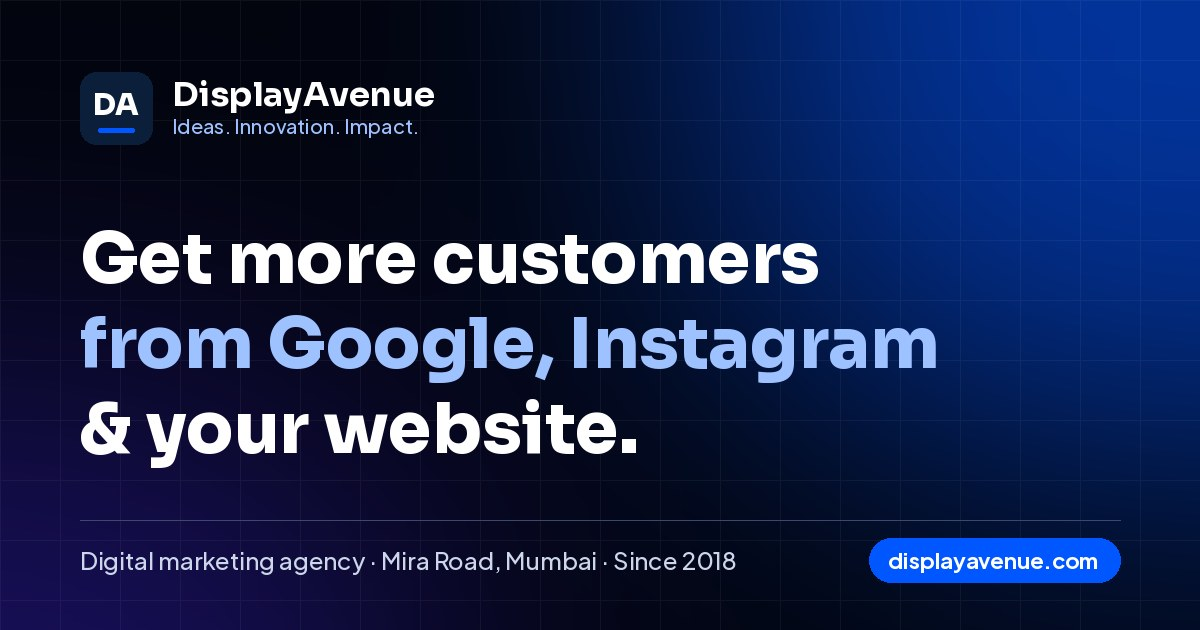
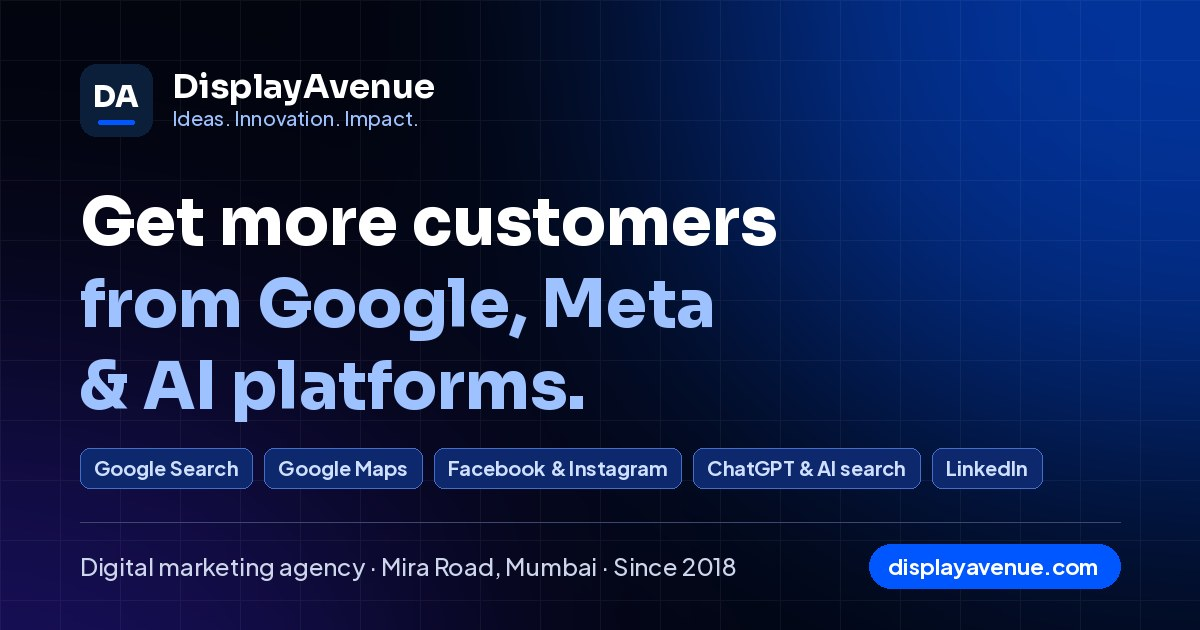
Hero: "Get more customers from Google, Meta & AI platforms" + lead sources
- New hero headline and lead copy naming every lead channel
- "Leads from" row: Google Search, Google Maps, Facebook & Instagram,
  ChatGPT & AI search, LinkedIn, YouTube, Your website — each links to
  its service page (internal links help SEO)
- New FAQ: "Where can DisplayAvenue generate leads for my business?"
- Homepage meta description and share image updated to match

Claude-Session: https://claude.ai/code/session_01Cj97d8q7e9N6twWRHD2vxP

diff --git a/agency/src/pages/Home.tsx b/agency/src/pages/Home.tsx
@@ -11,7 +11,6 @@ import {
   CountStat,
   LogoMarquee,
   MobileSwipeRail,
-  RotatingKeywords,
   WordReveal,
 } from "../components/motion/MotionBits";
 import { PreferredSources } from "../components/PreferredSources";
@@ -80,6 +79,17 @@ const processSteps = [
   { n: "06", title: "Grow", text: "Expand channels once the engine is predictable." },
 ];
 
+/** Where leads come from — each links to the service that captures them. */
+const leadSources = [
+  { label: "Google Search", href: "/services/google-ads" },
+  { label: "Google Maps", href: "/services/local-seo" },
+  { label: "Facebook & Instagram", href: "/services/meta-ads" },
+  { label: "ChatGPT & AI search", href: "/services/ai-seo" },
+  { label: "LinkedIn", href: "/services/linkedin-ads" },
+  { label: "YouTube", href: "/services/performance-marketing" },
+  { label: "Your website", href: "/services/landing-pages" },
+];
+
 const HERO_IMAGE_FALLBACK = "/images/hero-agency-india.jpg";
 
 /** Visible FAQ + FAQPage schema: the format AI answer engines quote most. */
@@ -88,6 +98,11 @@ const homeFaqs = [
     question: "What does DisplayAvenue do?",
     answer:
       "DisplayAvenue is a digital marketing agency that helps businesses get more customers online. We run Google Ads and Meta (Facebook & Instagram) ads, do SEO and Google Business Profile optimisation, manage social media, and build websites and landing pages that turn visitors into enquiries.",
+  },
+  {
+    question: "Where can DisplayAvenue generate leads for my business?",
+    answer:
+      "Wherever your customers search: Google Search and Google Maps, Facebook and Instagram (Meta ads), AI assistants such as ChatGPT, Gemini and Perplexity (through AI search optimisation), LinkedIn for B2B, YouTube, and your own website and landing pages. We pick the two or three channels that will bring you the most enquiries for your budget.",
   },
   {
     question: "Where is DisplayAvenue located?",
@@ -168,8 +183,17 @@ export function Home() {
           <h1>
             <WordReveal text={headline} />
           </h1>
-          <RotatingKeywords />
           <p className="home-hero__lead">{home.hero.lead}</p>
+          <nav className="home-hero__sources" aria-label="Where we generate leads">
+            <span className="home-hero__sources-label">Leads from</span>
+            <ul>
+              {leadSources.map((s) => (
+                <li key={s.href}>
+                  <Link to={s.href}>{s.label}</Link>
+                </li>
+              ))}
+            </ul>
+          </nav>
           <div className="home-hero__actions">
             <Link to="/contact" className="btn btn-primary btn-shimmer">
               {home.hero.primaryCta}

diff --git a/agency/src/pages/Home.css b/agency/src/pages/Home.css
@@ -877,3 +877,56 @@
   line-height: 1.65;
   color: #3d4766;
 }
+
+/* ---------- Lead sources row ---------- */
+.home-hero__sources {
+  margin-top: 1.1rem;
+  opacity: 0;
+  animation: homeRise 0.85s var(--home-ease) 0.3s forwards;
+}
+
+.home-hero__sources-label {
+  display: block;
+  margin-bottom: 0.5rem;
+  font-size: 0.72rem;
+  font-weight: 700;
+  letter-spacing: 0.12em;
+  text-transform: uppercase;
+  color: rgba(255, 255, 255, 0.6);
+}
+
+.home-hero__sources ul {
+  list-style: none;
+  margin: 0;
+  padding: 0;
+  display: flex;
+  flex-wrap: wrap;
+  gap: 0.4rem;
+}
+
+.home-hero__sources a {
+  display: inline-block;
+  padding: 0.35rem 0.7rem;
+  border-radius: 8px;
+  font-size: 0.82rem;
+  font-weight: 600;
+  color: #cfe0ff;
+  background: rgba(0, 86, 255, 0.18);
+  border: 1px solid rgba(158, 193, 255, 0.28);
+  text-decoration: none;
+  transition: background 0.2s, color 0.2s, border-color 0.2s;
+}
+
+.home-hero__sources a:hover,
+.home-hero__sources a:focus-visible {
+  color: #fff;
+  background: var(--blue);
+  border-color: var(--blue);
+}
+
+@media (prefers-reduced-motion: reduce) {
+  .home-hero__sources {
+    animation: none !important;
+    opacity: 1 !important;
+  }
+}

diff --git a/agency/src/cms/CmsProvider.tsx b/agency/src/cms/CmsProvider.tsx
@@ -90,8 +90,8 @@ const fallbackHome: HomeCms = {
   hero: {
     eyebrow: "DisplayAvenue",
     titleBefore: "Get more customers from",
-    titleAccent: "Google, Instagram & your website",
-    lead: "We help business owners get found online and turn interest into real enquiries. Clear plans. Plain English. No jargon.",
+    titleAccent: "Google, Meta & AI platforms",
+    lead: "We bring you real enquiries from everywhere your customers look: Google Search and Maps, Facebook and Instagram, ChatGPT and other AI assistants, LinkedIn, YouTube and your own website.",
     primaryCta: "Book a free call",
     secondaryCta: "See our work",
     image: "/images/hero-agency-india.jpg",

diff --git a/agency/src/styles/motion.css b/agency/src/styles/motion.css
@@ -283,6 +283,7 @@ html.da-low-power .wa-float--pulse {
 .da-handoff .home-hero__lead,
 .da-handoff .home-hero__actions,
 .da-handoff .home-hero__trust,
+.da-handoff .home-hero__sources,
 .da-handoff .home-hero__media img {
   animation: none !important;
   opacity: 1 !important;
